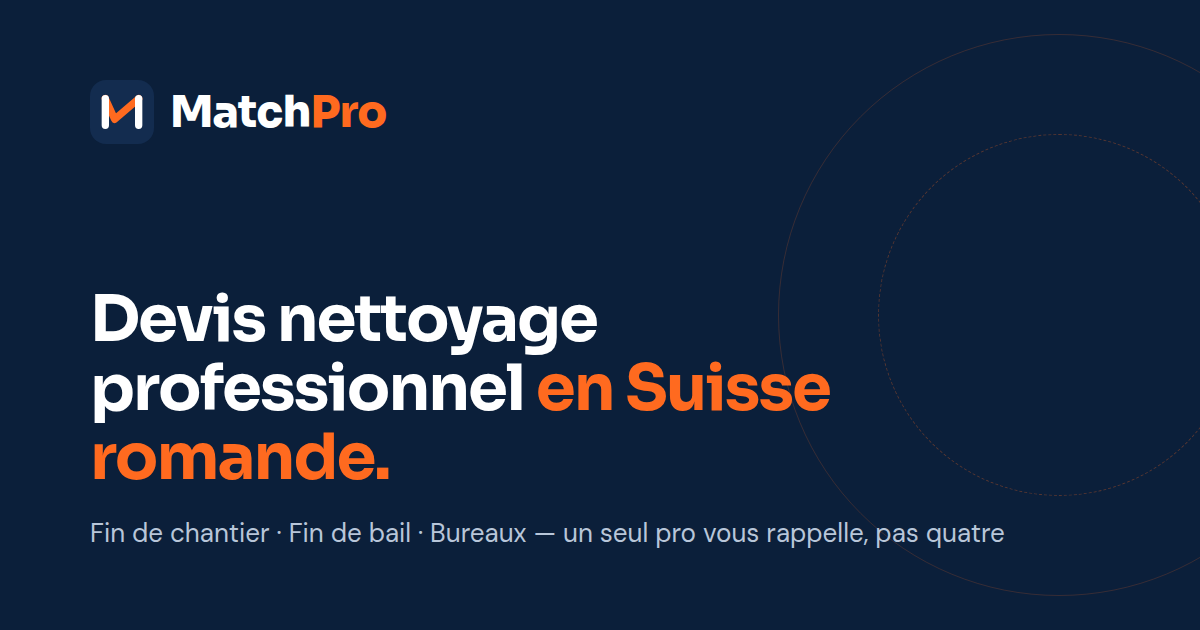
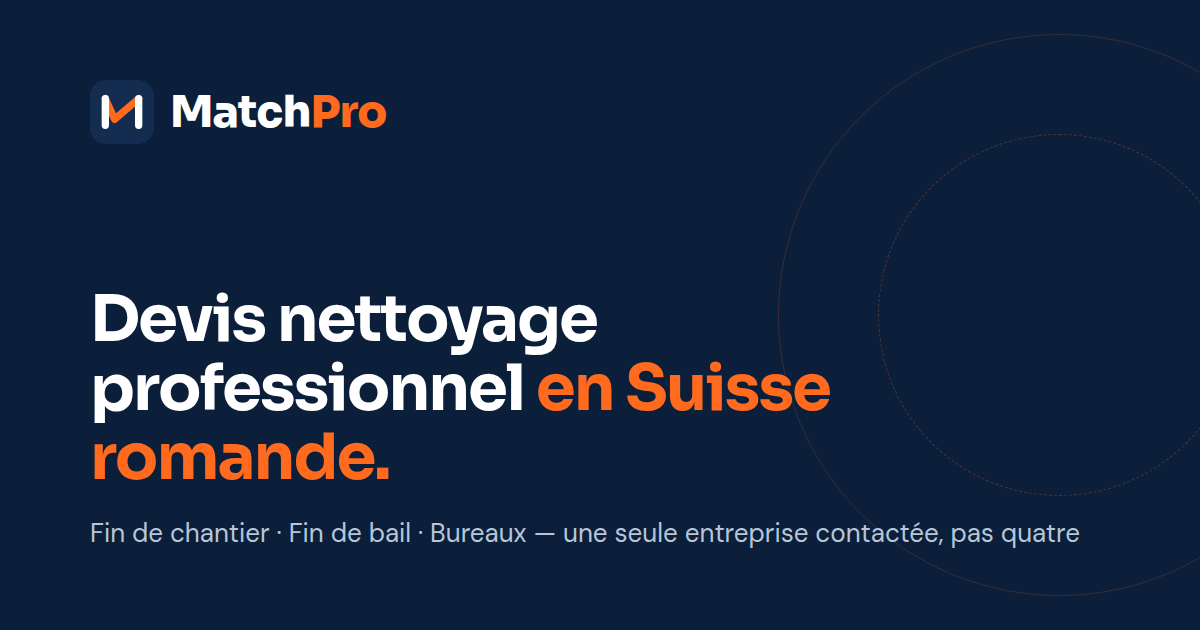
Landing MatchPro : titre avec mots-clés et textes fidèles au déroulement
- Titre : « Nettoyage de fin de bail, de chantier et de bureaux,
  en Suisse romande. » (au lieu de « Les meilleurs pros… »).
- Slogan sans superlatif invérifiable.
- Textes alignés sur le vrai déroulement : MatchPro rappelle sous
  24h, puis transmet à une seule entreprise qui établit le devis
  (texte d'accroche, point fort, étape 2, encadré, message après
  envoi, FAQ, pages services, descriptions).
- Image de partage mise à jour. Pré-rendu relancé.

Claude-Session: https://claude.ai/code/session_013JutAqbdvvbJFRc5uPirz9

Changed region(s): [[0.4933, 0.8143, 0.8942, 0.8746]]

diff --git a/site/index.html b/site/index.html
@@ -3,7 +3,7 @@
 <meta charset="UTF-8">
 <meta name="viewport" content="width=device-width, initial-scale=1, viewport-fit=cover">
 <title>Devis nettoyage professionnel — Suisse romande | MatchPro</title>
-<meta name="description" content="Nettoyage de fin de chantier, fin de bail et bureaux en Suisse romande, vitres en option. Devis gratuit et sans engagement, un seul professionnel vous rappelle, pas quatre.">
+<meta name="description" content="Nettoyage de fin de chantier, fin de bail et bureaux en Suisse romande, vitres en option. Devis gratuit et sans engagement, une seule entreprise contactée, pas quatre.">
 <meta name="theme-color" content="#0B1F3A">
 <!-- Référencement et aperçu de partage. Domaine provisoire https://matchpro.ch : s'il change, le remplacer partout dans ce fichier, sitemap.xml et robots.txt. -->
 <link rel="canonical" href="https://matchpro.ch/">
@@ -11,7 +11,7 @@
 <meta property="og:site_name" content="MatchPro">
 <meta property="og:locale" content="fr_CH">
 <meta property="og:title" content="Devis nettoyage professionnel — Suisse romande | MatchPro">
-<meta property="og:description" content="Nettoyage de fin de chantier, fin de bail et bureaux en Suisse romande, vitres en option. Devis gratuit et sans engagement, un seul professionnel vous rappelle, pas quatre.">
+<meta property="og:description" content="Nettoyage de fin de chantier, fin de bail et bureaux en Suisse romande, vitres en option. Devis gratuit et sans engagement, une seule entreprise contactée, pas quatre.">
 <meta property="og:url" content="https://matchpro.ch/">
 <meta property="og:image" content="https://matchpro.ch/matchpro-partage.png">
 <meta property="og:image:width" content="1200">
@@ -490,8 +490,8 @@
 
     <div class="hero-copy">
       <div class="pill"><span class="dot"></span><span id="heroEyebrow"><span class="full">Suisse romande · </span>VD · GE · FR · VS · JU</span></div>
-      <h1 id="heroTitle"><span id="h1Main">Les meilleurs pros,</span> <em id="h1Accent">au bon moment.</em></h1>
-      <p class="hero-lede" id="heroLede">Fin de chantier, fin de bail ou bureaux : décrivez votre besoin : une seule entreprise de nettoyage de votre région vous rappelle avec un devis. Nettoyage des vitres en option.</p>
+      <h1 id="heroTitle"><span id="h1Main">Nettoyage de fin de bail, de chantier et de bureaux,</span> <em id="h1Accent">en Suisse romande.</em></h1>
+      <p class="hero-lede" id="heroLede">Fin de chantier, fin de bail ou bureaux : décrivez votre besoin. MatchPro vous rappelle sous 24h, puis une seule entreprise de votre région vous établit un devis. Nettoyage des vitres en option.</p>
 
       <!-- ÉTAPE 1 : besoin + localisation (champs rattachés au formulaire #leadForm) -->
       <div class="search" id="devis" data-step="1">
@@ -509,12 +509,12 @@
       </div>
 
       <noscript><p class="noscript-note">Le formulaire a besoin de JavaScript : activez-le dans votre navigateur pour envoyer votre demande.</p></noscript>
-      <ul class="check-list" id="heroPoints"><li><svg width="18" height="18" aria-hidden="true"><use href="#pm-check"></use></svg>Un seul pro vous rappelle, pas quatre</li><li><svg width="18" height="18" aria-hidden="true"><use href="#pm-check"></use></svg>Devis gratuit et sans engagement</li><li><svg width="18" height="18" aria-hidden="true"><use href="#pm-check"></use></svg>Particuliers, régies et professionnels du bâtiment</li></ul>
+      <ul class="check-list" id="heroPoints"><li><svg width="18" height="18" aria-hidden="true"><use href="#pm-check"></use></svg>Une seule entreprise contactée, pas quatre</li><li><svg width="18" height="18" aria-hidden="true"><use href="#pm-check"></use></svg>Devis gratuit et sans engagement</li><li><svg width="18" height="18" aria-hidden="true"><use href="#pm-check"></use></svg>Particuliers, régies et professionnels du bâtiment</li></ul>
       <div class="rating" id="heroRating" hidden=""></div>
 
       <div class="match-mini" aria-hidden="true">
         <div class="ico"><svg width="28" height="24"><use href="#mp-mark-badge"></use></svg></div>
-        <div><strong>Un seul pro de votre région</strong><span id="miniText">Il vous rappelle sous 24h avec un devis.</span></div>
+        <div><strong>Un seul pro de votre région</strong><span id="miniText">MatchPro vous rappelle sous 24h.</span></div>
       </div>
     </div>
 
@@ -628,7 +628,7 @@
         <div class="success" id="successPane" role="status" aria-live="polite">
           <div class="check"><svg width="26" height="26"><use href="#pm-check"></use></svg></div>
           <h2>Demande bien reçue</h2>
-          <p class="sub" id="successText">Un professionnel partenaire vous rappelle rapidement.</p>
+          <p class="sub" id="successText">MatchPro vous rappelle rapidement.</p>
           <ol>
             <li>Gardez votre téléphone à portée : l'appel vient d'un numéro suisse.</li>
             <li>Préparez 2–3 photos des lieux : elles permettent souvent un devis sans visite.</li>
@@ -676,7 +676,7 @@
         <div class="cmp-num"><span>1</span> seul appel</div>
         <ul>
           <li><svg width="18" height="18" aria-hidden="true"><use href="#pm-check"></use></svg>Une seule entreprise de votre région reçoit votre demande.</li>
-          <li><svg width="18" height="18" aria-hidden="true"><use href="#pm-check"></use></svg>Un interlocuteur unique, du premier appel à l'intervention.</li>
+          <li><svg width="18" height="18" aria-hidden="true"><use href="#pm-check"></use></svg>Une seule entreprise vous contacte, jusqu'à l'intervention.</li>
           <li><svg width="18" height="18" aria-hidden="true"><use href="#pm-check"></use></svg>Un devis adapté à votre besoin, sans pression : libre à vous de ne pas donner suite.</li>
         </ul>
       </div>
@@ -691,7 +691,7 @@
     <h2>Trois étapes, <em>zéro démarchage</em></h2>
     <div class="steps-grid">
       <div class="step"><div class="num">01</div><h3>Décrivez votre besoin</h3><p>Type de nettoyage, lieu, taille et date. Une minute suffit.</p></div>
-      <div class="step"><div class="num">02</div><h3>Un professionnel vous rappelle</h3><p>Une seule entreprise de votre région reçoit votre demande et vous contacte <span data-cfg="delaiReponse">sous 24h</span>.</p></div>
+      <div class="step"><div class="num">02</div><h3>Nous vous rappelons</h3><p>MatchPro vous rappelle <span data-cfg="delaiReponse">sous 24h</span> pour préciser votre besoin, puis le transmet à une seule entreprise de votre région.</p></div>
       <div class="step"><div class="num">03</div><h3>Vous recevez votre devis</h3><p>Gratuit, sans engagement, et sans être sollicité par plusieurs entreprises.</p></div>
     </div>
   </div>
@@ -717,7 +717,7 @@
     <div>
       <div class="eyebrow">Entreprises générales, architectes, régies</div>
       <h2 id="proTitre">Vos fins de chantier, <em>un seul interlocuteur.</em></h2>
-      <p class="sub" id="proTexte">Neuf, rénovation, immeubles ou locaux commerciaux : décrivez le chantier et sa date de fin des travaux, un professionnel de votre région vous rappelle avec un devis.</p>
+      <p class="sub" id="proTexte">Neuf, rénovation, immeubles ou locaux commerciaux : décrivez le chantier et sa date de fin des travaux : nous vous rappelons sous 24h, puis une seule entreprise de votre région vous établit un devis.</p>
       <a class="btn" href="#devis" id="proBtn">Demander un devis professionnel<svg width="18" height="18" aria-hidden="true"><use href="#pm-arrow"></use></svg></a>
     </div>
     <div class="pro-card"><ul class="pro-list" id="proPoints"><li><svg width="18" height="18" aria-hidden="true"><use href="#pm-check"></use></svg><span><strong>Un seul interlocuteur</strong> — pas de mise en concurrence imposée, pas de relances multiples.</span></li><li><svg width="18" height="18" aria-hidden="true"><use href="#pm-check"></use></svg><span><strong>Adapté au chantier</strong> — surface, accès, date de réception des travaux : le devis part de vos informations.</span></li><li><svg width="18" height="18" aria-hidden="true"><use href="#pm-check"></use></svg><span><strong>Ponctuel ou récurrent</strong> — pour une réception d'ouvrage ou pour tous vos chantiers de l'année.</span></li></ul></div>
@@ -748,7 +748,7 @@
   <div class="wrap">
     <div class="eyebrow">Questions fréquentes</div>
     <h2>Avant de demander <em>votre devis</em></h2>
-    <div class="faq" id="faqList"><details><summary>Le devis est-il vraiment gratuit ?</summary><p>Oui. La demande et le devis sont gratuits et sans engagement : vous êtes libre de ne pas donner suite.</p></details><details><summary>Qui va me contacter ?</summary><p>Une seule entreprise de nettoyage partenaire, active dans votre région. Vos coordonnées ne sont transmises à personne d'autre.</p></details><details><summary>Pourquoi un seul professionnel et pas plusieurs devis ?</summary><p>Parce que comparer quatre devis veut souvent dire recevoir quatre appels. Votre demande est transmise à une seule entreprise de votre région : un interlocuteur, un devis, et vous restez libre de ne pas donner suite.</p></details><details><summary>Combien coûte un nettoyage ?</summary><p>Le montant dépend de la surface, de l'état des lieux et des options : c'est pourquoi le formulaire vous demande quelques détails, pour un devis juste dès le premier appel.</p></details><details><summary>Combien de temps à l'avance faut-il réserver ?</summary><p>Idéalement une à deux semaines avant la date souhaitée, et davantage en fin de mois, période chargée pour les fins de bail. En cas d'urgence, indiquez-le dans les précisions du formulaire.</p></details><details><summary>Quelle différence entre fin de chantier et fin de bail ?</summary><p>Le nettoyage de fin de chantier retire les poussières fines et les résidus de plâtre, de peinture, de colle et de protections après des travaux. Le nettoyage de fin de bail prépare un logement déjà habité pour l'état des lieux de sortie avec la régie.</p></details><details><summary>Faut-il une visite sur place ?</summary><p>Pas toujours. Pour les petites surfaces, quelques photos suffisent souvent. Pour un chantier ou de grands locaux, le professionnel peut proposer une courte visite.</p></details><details><summary>Pouvez-vous aussi nettoyer les vitres ?</summary><p>Oui, en option. Cochez « Ajouter le nettoyage des vitres » dans le formulaire : fenêtres, cadres et stores sont alors inclus dans le devis de la même intervention.</p></details><details><summary>Et mes données personnelles ?</summary><p>Elles servent uniquement à établir votre devis, ne sont ni vendues ni partagées avec d'autres entreprises, et vous pouvez demander leur suppression à tout moment.</p></details></div>
+    <div class="faq" id="faqList"><details><summary>Le devis est-il vraiment gratuit ?</summary><p>Oui. La demande et le devis sont gratuits et sans engagement : vous êtes libre de ne pas donner suite.</p></details><details><summary>Qui va me contacter ?</summary><p>D'abord MatchPro, sous 24h, pour préciser votre besoin. Ensuite une seule entreprise de nettoyage partenaire, qui établit le devis. Vos coordonnées ne sont transmises à personne d'autre.</p></details><details><summary>Pourquoi un seul professionnel et pas plusieurs devis ?</summary><p>Parce que comparer quatre devis veut souvent dire recevoir quatre appels. Votre demande est transmise à une seule entreprise de votre région : un interlocuteur, un devis, et vous restez libre de ne pas donner suite.</p></details><details><summary>Combien coûte un nettoyage ?</summary><p>Le montant dépend de la surface, de l'état des lieux et des options : c'est pourquoi le formulaire vous demande quelques détails, pour un devis juste dès le premier appel.</p></details><details><summary>Combien de temps à l'avance faut-il réserver ?</summary><p>Idéalement une à deux semaines avant la date souhaitée, et davantage en fin de mois, période chargée pour les fins de bail. En cas d'urgence, indiquez-le dans les précisions du formulaire.</p></details><details><summary>Quelle différence entre fin de chantier et fin de bail ?</summary><p>Le nettoyage de fin de chantier retire les poussières fines et les résidus de plâtre, de peinture, de colle et de protections après des travaux. Le nettoyage de fin de bail prépare un logement déjà habité pour l'état des lieux de sortie avec la régie.</p></details><details><summary>Faut-il une visite sur place ?</summary><p>Pas toujours. Pour les petites surfaces, quelques photos suffisent souvent. Pour un chantier ou de grands locaux, le professionnel peut proposer une courte visite.</p></details><details><summary>Pouvez-vous aussi nettoyer les vitres ?</summary><p>Oui, en option. Cochez « Ajouter le nettoyage des vitres » dans le formulaire : fenêtres, cadres et stores sont alors inclus dans le devis de la même intervention.</p></details><details><summary>Et mes données personnelles ?</summary><p>Elles servent uniquement à établir votre devis, ne sont ni vendues ni partagées avec d'autres entreprises, et vous pouvez demander leur suppression à tout moment.</p></details></div>
   </div>
 </section>
 
@@ -768,7 +768,7 @@
   <div class="wrap foot-grid">
     <div>
       <div class="logo" aria-hidden="true"><svg viewBox="0 0 48 48"><use href="#mp-icon"></use></svg><span class="wordmark">Match<b>Pro</b></span></div>
-      <p data-cfg="tagline">Les meilleurs pros au bon moment</p>
+      <p data-cfg="tagline">Le bon pro du nettoyage, sans multiplier les appels.</p>
       <p class="foot-links"><a href="nettoyage-fin-de-bail/">Nettoyage de fin de bail</a><a href="nettoyage-fin-de-chantier/">Nettoyage de fin de chantier</a><a href="nettoyage-bureaux/">Nettoyage de bureaux</a></p>
       <p id="footOperator">[Raison sociale ou nom complet — à compléter]<br>[Adresse — à compléter]<br>contact@matchpro.ch</p>
       <p class="foot-contact" id="footContact" hidden=""></p>
@@ -793,7 +793,7 @@
 const CONFIG = {
   clientId: "matchpro",                      // identifiant envoyé avec chaque lead (renommé le 25.09.2026 ; était "nettoyage-romandie-01")
   marque: "MatchPro",
-  tagline: "Les meilleurs pros au bon moment",
+  tagline: "Le bon pro du nettoyage, sans multiplier les appels.",
   telephone: "",                                // ex. "021 000 00 00" — vide = pas de bouton d'appel
   horaires: "",                                 // ex. "Lun–ven 8h–18h" — affiché avec le téléphone
   delaiReponse: "sous 24h",                     // NE PROMETTRE QUE CE QUE LE CLIENT TIENT RÉELLEMENT
@@ -814,7 +814,7 @@ const CONFIG = {
 
   // Points forts du hero : uniquement des faits vérifiables
   pointsForts: [
-    "Un seul pro vous rappelle, pas quatre",
+    "Une seule entreprise contactée, pas quatre",
     "Devis gratuit et sans engagement",
     "Particuliers, régies et professionnels du bâtiment"
   ],
@@ -823,8 +823,8 @@ const CONFIG = {
   avis: null,
 
   // Titre en 2 parties : [texte, fin en italique cuivre]
-  titreParDefaut: ["Les meilleurs pros,", "au bon moment."],
-  ledeParDefaut: "Fin de chantier, fin de bail ou bureaux : décrivez votre besoin : une seule entreprise de nettoyage de votre région vous rappelle avec un devis. Nettoyage des vitres en option.",
+  titreParDefaut: ["Nettoyage de fin de bail, de chantier et de bureaux,", "en Suisse romande."],
+  ledeParDefaut: "Fin de chantier, fin de bail ou bureaux : décrivez votre besoin. MatchPro vous rappelle sous 24h, puis une seule entreprise de votre région vous établit un devis. Nettoyage des vitres en option.",
 
   // Prestation complémentaire proposée en case à cocher dans le formulaire (null = aucune)
   option: {
@@ -840,9 +840,9 @@ const CONFIG = {
   // h1: [texte, fin en italique]
   services: {
     "chantier":    { label: "Fin de chantier",     desc: "Neuf ou rénovation : poussières, résidus, sols.", taille: "surface",  frequence: false, option: true, dateLabel: "Date de fin des travaux",
-                     h1: ["Nettoyage de fin de chantier,", "prêt pour la remise des clés."], lede: "Neuf ou rénovation en Suisse romande : un professionnel évalue votre chantier et vous transmet un devis clair." },
+                     h1: ["Nettoyage de fin de chantier,", "prêt pour la remise des clés."], lede: "Neuf ou rénovation en Suisse romande : nous vous rappelons sous 24h, puis une seule entreprise de votre région évalue votre chantier et vous établit un devis clair." },
     "fin-de-bail": { label: "Fin de bail",         desc: "Appartement ou maison, préparé pour l'état des lieux.", taille: "pieces", frequence: false, option: true, dateLabel: "Date de l'état des lieux",
-                     h1: ["Nettoyage de fin de bail,", "prêt pour l'état des lieux."], lede: "Indiquez la date de votre état des lieux : un professionnel de votre région vous rappelle avec un devis." },
+                     h1: ["Nettoyage de fin de bail,", "prêt pour l'état des lieux."], lede: "Indiquez la date de votre état des lieux : nous vous rappelons sous 24h, puis une seule entreprise de votre région vous établit un devis." },
     "bureaux":     { label: "Bureaux & immeubles", desc: "Bureaux, commerces, cages d'escalier.", taille: "surface", frequence: true, option: true, dateLabel: "Date souhaitée (début)",
                      h1: ["Nettoyage de bureaux et d'immeubles", "en Suisse romande."], lede: "Contrat régulier ou intervention ponctuelle : décrivez vos locaux, recevez un devis adapté." }
   },
@@ -856,7 +856,7 @@ const CONFIG = {
   // Bloc « professionnels du bâtiment » (null = masqué)
   pro: {
     titre: ["Vos fins de chantier,", "un seul interlocuteur."],
-    texte: "Neuf, rénovation, immeubles ou locaux commerciaux : décrivez le chantier et sa date de fin des travaux, un professionnel de votre région vous rappelle avec un devis.",
+    texte: "Neuf, rénovation, immeubles ou locaux commerciaux : décrivez le chantier et sa date de fin des travaux : nous vous rappelons sous 24h, puis une seule entreprise de votre région vous établit un devis.",
     points: [
       ["Un seul interlocuteur", "pas de mise en concurrence imposée, pas de relances multiples."],
       ["Adapté au chantier", "surface, accès, date de réception des travaux : le devis part de vos informations."],
@@ -871,7 +871,7 @@ const CONFIG = {
 
   faq: [
     ["Le devis est-il vraiment gratuit ?", "Oui. La demande et le devis sont gratuits et sans engagement : vous êtes libre de ne pas donner suite."],
-    ["Qui va me contacter ?", "Une seule entreprise de nettoyage partenaire, active dans votre région. Vos coordonnées ne sont transmises à personne d'autre."],
+    ["Qui va me contacter ?", "D'abord MatchPro, sous 24h, pour préciser votre besoin. Ensuite une seule entreprise de nettoyage partenaire, qui établit le devis. Vos coordonnées ne sont transmises à personne d'autre."],
     ["Pourquoi un seul professionnel et pas plusieurs devis ?", "Parce que comparer quatre devis veut souvent dire recevoir quatre appels. Votre demande est transmise à une seule entreprise de votre région : un interlocuteur, un devis, et vous restez libre de ne pas donner suite."],
     ["Combien coûte un nettoyage ?", "Le montant dépend de la surface, de l'état des lieux et des options : c'est pourquoi le formulaire vous demande quelques détails, pour un devis juste dès le premier appel."],
     ["Combien de temps à l'avance faut-il réserver ?", "Idéalement une à deux semaines avant la date souhaitée, et davantage en fin de mois, période chargée pour les fins de bail. En cas d'urgence, indiquez-le dans les précisions du formulaire."],
@@ -942,7 +942,7 @@ $("#zoneText").textContent = "Nos professionnels partenaires interviennent dans 
 $("#zoneChips").innerHTML = CONFIG.communes.map(c => `<span class="chip">${esc(c)}</span>`).join("");
 $("#faqList").innerHTML = CONFIG.faq.map(([q, a]) => `<details><summary>${esc(q)}</summary><p>${esc(a)}</p></details>`).join("");
 $("#vizDelai").textContent = "Rappel " + CONFIG.delaiReponse;
-$("#miniText").textContent = "Il vous rappelle " + CONFIG.delaiReponse + " avec un devis.";
+$("#miniText").textContent = "MatchPro vous rappelle " + CONFIG.delaiReponse + ".";
 
 const svcKeys = Object.keys(CONFIG.services);
 $("#service").innerHTML = svcKeys.map(k => `<option value="${k}">${esc(CONFIG.services[k].label)}</option>`).join("");
@@ -1171,7 +1171,7 @@ $("#leadForm").addEventListener("submit", async e => {
     }
     track("lead_submit", { service: d.service, canton: d.canton, lead_score: payload.score, lead_niveau: payload.niveau });
     $("#formPane").hidden = true;
-    $("#successText").textContent = `Merci ${d.nom.split(" ")[0]}. Un professionnel partenaire vous rappelle ${CONFIG.delaiReponse} au ${d.tel}.`;
+    $("#successText").textContent = `Merci ${d.nom.split(" ")[0]}. MatchPro vous rappelle ${CONFIG.delaiReponse} au ${d.tel}, puis vous met en relation avec une seule entreprise de votre région.`;
     $("#successPane").classList.add("show");
     scrollTo(card, "start");
   } catch (x) {
@@ -1192,6 +1192,8 @@ io.observe(card);
 
 goTo(1);
 </script>
+
+
 
 
 

diff --git a/site/nettoyage-fin-de-bail/index.html b/site/nettoyage-fin-de-bail/index.html
@@ -4,7 +4,7 @@
 <meta charset="UTF-8">
 <meta name="viewport" content="width=device-width, initial-scale=1, viewport-fit=cover">
 <title>Nettoyage de fin de bail en Suisse romande | MatchPro</title>
-<meta name="description" content="Vous quittez votre logement ? Nettoyage de fin de bail en Suisse romande : cuisine, salle de bain, vitres, stores, préparés pour l'état des lieux. Devis gratuit, un seul professionnel vous rappelle.">
+<meta name="description" content="Vous quittez votre logement ? Nettoyage de fin de bail en Suisse romande : cuisine, salle de bain, vitres, stores, préparés pour l'état des lieux. Devis gratuit, une seule entreprise contactée.">
 <meta name="theme-color" content="#0B1F3A">
 <!-- Domaine provisoire https://matchpro.ch : s'il change, le remplacer dans toutes les pages, sitemap.xml et robots.txt. -->
 <link rel="canonical" href="https://matchpro.ch/nettoyage-fin-de-bail/">
@@ -12,7 +12,7 @@
 <meta property="og:site_name" content="MatchPro">
 <meta property="og:locale" content="fr_CH">
 <meta property="og:title" content="Nettoyage de fin de bail en Suisse romande | MatchPro">
-<meta property="og:description" content="Vous quittez votre logement ? Nettoyage de fin de bail en Suisse romande : cuisine, salle de bain, vitres, stores, préparés pour l'état des lieux. Devis gratuit, un seul professionnel vous rappelle.">
+<meta property="og:description" content="Vous quittez votre logement ? Nettoyage de fin de bail en Suisse romande : cuisine, salle de bain, vitres, stores, préparés pour l'état des lieux. Devis gratuit, une seule entreprise contactée.">
 <meta property="og:url" content="https://matchpro.ch/nettoyage-fin-de-bail/">
 <meta property="og:image" content="https://matchpro.ch/matchpro-partage.png">
 <meta property="og:image:width" content="1200">
@@ -92,9 +92,9 @@
       <nav class="crumb" aria-label="Fil d'Ariane"><a href="../">Accueil</a> › Nettoyage de fin de bail</nav>
       <div class="pill"><span class="dot"></span><span><span class="full">Suisse romande · </span>VD · GE · FR · VS · JU</span></div>
       <h1>Nettoyage de fin de bail <em>en Suisse romande.</em></h1>
-      <p class="hero-lede">Vous rendez votre appartement ou votre maison ? Indiquez le nombre de pièces et la date de l'état des lieux : un seul professionnel de votre région vous rappelle avec un devis.</p>
+      <p class="hero-lede">Vous rendez votre appartement ou votre maison ? Indiquez le nombre de pièces et la date de l'état des lieux : nous vous rappelons sous 24h, puis une seule entreprise de votre région vous établit un devis.</p>
       <div class="cta-row"><a class="btn" href="../?service=fin-de-bail#devis">Demander mon devis<svg width="18" height="18" aria-hidden="true"><use href="#pm-arrow"/></svg></a><a class="btn ghost" href="#comment">Comment ça marche</a></div>
-      <ul class="check-list"><li><svg width="18" height="18" aria-hidden="true"><use href="#pm-check"/></svg>Un seul pro vous rappelle, pas quatre</li><li><svg width="18" height="18" aria-hidden="true"><use href="#pm-check"/></svg>Devis gratuit et sans engagement</li><li><svg width="18" height="18" aria-hidden="true"><use href="#pm-check"/></svg>Particuliers, régies et professionnels du bâtiment</li></ul>
+      <ul class="check-list"><li><svg width="18" height="18" aria-hidden="true"><use href="#pm-check"/></svg>Une seule entreprise contactée, pas quatre</li><li><svg width="18" height="18" aria-hidden="true"><use href="#pm-check"/></svg>Devis gratuit et sans engagement</li><li><svg width="18" height="18" aria-hidden="true"><use href="#pm-check"/></svg>Particuliers, régies et professionnels du bâtiment</li></ul>
       <p class="hero-note">MatchPro est un service de mise en relation : votre demande est transmise à une seule entreprise de nettoyage partenaire de votre région, qui établit le devis et réalise l'intervention.</p>
     </div>
     <div class="hero-side">
@@ -122,7 +122,7 @@
     <h2>Trois étapes, <em>zéro démarchage</em></h2>
     <div class="steps-grid">
       <div class="step"><div class="num">01</div><h3>Décrivez votre besoin</h3><p>Type de nettoyage, lieu, taille et date. Une minute suffit.</p></div>
-      <div class="step"><div class="num">02</div><h3>Un professionnel vous rappelle</h3><p>Une seule entreprise de votre région reçoit votre demande et vous contacte.</p></div>
+      <div class="step"><div class="num">02</div><h3>Nous vous rappelons</h3><p>MatchPro vous rappelle sous 24h pour préciser votre besoin, puis le transmet à une seule entreprise de votre région.</p></div>
       <div class="step"><div class="num">03</div><h3>Vous recevez votre devis</h3><p>Gratuit, sans engagement, et sans être sollicité par plusieurs entreprises.</p></div>
     </div>
   </div>
@@ -132,7 +132,7 @@
   <div class="wrap">
     <div class="eyebrow">Questions fréquentes</div>
     <h2>Fin de bail : <em>vos questions</em></h2>
-    <div class="faq"><details><summary>Faut-il faire appel à une entreprise ?</summary><p>Non, le logement doit être rendu propre, mais vous pouvez le nettoyer vous-même. Une entreprise spécialisée connaît toutefois les points contrôlés par les régies et dispose du matériel adapté (calcaire, four, vitres).</p></details><details><summary>Les vitres sont-elles comprises ?</summary><p>Cela dépend de l'entreprise. Cochez « Ajouter le nettoyage des vitres » dans le formulaire : elles seront prévues dans le devis.</p></details><details><summary>Dois-je être présent pendant le nettoyage ?</summary><p>C'est à convenir avec le professionnel au moment du devis : remise des clés, accès au logement et contrôle final.</p></details><details><summary>Combien coûte le nettoyage ?</summary><p>Le prix dépend de la surface, de l'état des lieux, de la fréquence et des options (vitres, stores, balcon, cave). Il est fixé par le professionnel dans un devis gratuit, que vous êtes libre de refuser.</p></details><details><summary>Qui va me contacter ?</summary><p>Une seule entreprise de nettoyage partenaire, active dans votre région. MatchPro est un service de mise en relation : c'est l'entreprise qui établit le devis et réalise l'intervention.</p></details></div>
+    <div class="faq"><details><summary>Faut-il faire appel à une entreprise ?</summary><p>Non, le logement doit être rendu propre, mais vous pouvez le nettoyer vous-même. Une entreprise spécialisée connaît toutefois les points contrôlés par les régies et dispose du matériel adapté (calcaire, four, vitres).</p></details><details><summary>Les vitres sont-elles comprises ?</summary><p>Cela dépend de l'entreprise. Cochez « Ajouter le nettoyage des vitres » dans le formulaire : elles seront prévues dans le devis.</p></details><details><summary>Dois-je être présent pendant le nettoyage ?</summary><p>C'est à convenir avec le professionnel au moment du devis : remise des clés, accès au logement et contrôle final.</p></details><details><summary>Combien coûte le nettoyage ?</summary><p>Le prix dépend de la surface, de l'état des lieux, de la fréquence et des options (vitres, stores, balcon, cave). Il est fixé par le professionnel dans un devis gratuit, que vous êtes libre de refuser.</p></details><details><summary>Qui va me contacter ?</summary><p>D'abord MatchPro, sous 24h, pour préciser votre besoin. Ensuite une seule entreprise de nettoyage partenaire de votre région, qui établit le devis et réalise l'intervention.</p></details></div>
   </div>
 </section>
 
@@ -159,7 +159,7 @@
   <div class="wrap foot-grid">
     <div>
       <div class="logo" aria-hidden="true"><svg viewBox="0 0 48 48"><use href="#mp-icon"/></svg><span class="wordmark">Match<b>Pro</b></span></div>
-      <p>Les meilleurs pros au bon moment</p>
+      <p>Le bon pro du nettoyage, sans multiplier les appels.</p>
       <p class="foot-links"><a href="../">Accueil</a><a href="../nettoyage-fin-de-bail/">Nettoyage de fin de bail</a><a href="../nettoyage-fin-de-chantier/">Nettoyage de fin de chantier</a><a href="../nettoyage-bureaux/">Nettoyage de bureaux</a></p>
     </div>
     <div>

diff --git a/site/nettoyage-fin-de-chantier/index.html b/site/nettoyage-fin-de-chantier/index.html
@@ -4,7 +4,7 @@
 <meta charset="UTF-8">
 <meta name="viewport" content="width=device-width, initial-scale=1, viewport-fit=cover">
 <title>Nettoyage de fin de chantier en Suisse romande | MatchPro</title>
-<meta name="description" content="Construction neuve ou rénovation : nettoyage de fin de chantier en Suisse romande avant la remise des clés. Particuliers, architectes, entreprises. Devis gratuit, un seul professionnel vous rappelle.">
+<meta name="description" content="Construction neuve ou rénovation : nettoyage de fin de chantier en Suisse romande avant la remise des clés. Particuliers, architectes, entreprises. Devis gratuit, une seule entreprise contactée.">
 <meta name="theme-color" content="#0B1F3A">
 <!-- Domaine provisoire https://matchpro.ch : s'il change, le remplacer dans toutes les pages, sitemap.xml et robots.txt. -->
 <link rel="canonical" href="https://matchpro.ch/nettoyage-fin-de-chantier/">
@@ -12,7 +12,7 @@
 <meta property="og:site_name" content="MatchPro">
 <meta property="og:locale" content="fr_CH">
 <meta property="og:title" content="Nettoyage de fin de chantier en Suisse romande | MatchPro">
-<meta property="og:description" content="Construction neuve ou rénovation : nettoyage de fin de chantier en Suisse romande avant la remise des clés. Particuliers, architectes, entreprises. Devis gratuit, un seul professionnel vous rappelle.">
+<meta property="og:description" content="Construction neuve ou rénovation : nettoyage de fin de chantier en Suisse romande avant la remise des clés. Particuliers, architectes, entreprises. Devis gratuit, une seule entreprise contactée.">
 <meta property="og:url" content="https://matchpro.ch/nettoyage-fin-de-chantier/">
 <meta property="og:image" content="https://matchpro.ch/matchpro-partage.png">
 <meta property="og:image:width" content="1200">
@@ -92,9 +92,9 @@
       <nav class="crumb" aria-label="Fil d'Ariane"><a href="../">Accueil</a> › Nettoyage de fin de chantier</nav>
       <div class="pill"><span class="dot"></span><span><span class="full">Suisse romande · </span>VD · GE · FR · VS · JU</span></div>
       <h1>Nettoyage de fin de chantier <em>en Suisse romande.</em></h1>
-      <p class="hero-lede">Construction neuve ou rénovation : indiquez la surface et la date de fin des travaux. Un seul professionnel de votre région vous rappelle avec un devis.</p>
+      <p class="hero-lede">Construction neuve ou rénovation : indiquez la surface et la date de fin des travaux. Nous vous rappelons sous 24h, puis une seule entreprise de votre région vous établit un devis.</p>
       <div class="cta-row"><a class="btn" href="../?service=chantier#devis">Demander mon devis<svg width="18" height="18" aria-hidden="true"><use href="#pm-arrow"/></svg></a><a class="btn ghost" href="#comment">Comment ça marche</a></div>
-      <ul class="check-list"><li><svg width="18" height="18" aria-hidden="true"><use href="#pm-check"/></svg>Un seul pro vous rappelle, pas quatre</li><li><svg width="18" height="18" aria-hidden="true"><use href="#pm-check"/></svg>Devis gratuit et sans engagement</li><li><svg width="18" height="18" aria-hidden="true"><use href="#pm-check"/></svg>Particuliers, régies et professionnels du bâtiment</li></ul>
+      <ul class="check-list"><li><svg width="18" height="18" aria-hidden="true"><use href="#pm-check"/></svg>Une seule entreprise contactée, pas quatre</li><li><svg width="18" height="18" aria-hidden="true"><use href="#pm-check"/></svg>Devis gratuit et sans engagement</li><li><svg width="18" height="18" aria-hidden="true"><use href="#pm-check"/></svg>Particuliers, régies et professionnels du bâtiment</li></ul>
       <p class="hero-note">MatchPro est un service de mise en relation : votre demande est transmise à une seule entreprise de nettoyage partenaire de votre région, qui établit le devis et réalise l'intervention.</p>
     </div>
     <div class="hero-side">
@@ -124,7 +124,7 @@
     <h2>Trois étapes, <em>zéro démarchage</em></h2>
     <div class="steps-grid">
       <div class="step"><div class="num">01</div><h3>Décrivez votre besoin</h3><p>Type de nettoyage, lieu, taille et date. Une minute suffit.</p></div>
-      <div class="step"><div class="num">02</div><h3>Un professionnel vous rappelle</h3><p>Une seule entreprise de votre région reçoit votre demande et vous contacte.</p></div>
+      <div class="step"><div class="num">02</div><h3>Nous vous rappelons</h3><p>MatchPro vous rappelle sous 24h pour préciser votre besoin, puis le transmet à une seule entreprise de votre région.</p></div>
       <div class="step"><div class="num">03</div><h3>Vous recevez votre devis</h3><p>Gratuit, sans engagement, et sans être sollicité par plusieurs entreprises.</p></div>
     </div>
   </div>
@@ -134,7 +134,7 @@
   <div class="wrap">
     <div class="eyebrow">Questions fréquentes</div>
     <h2>Fin de chantier : <em>vos questions</em></h2>
-    <div class="faq"><details><summary>Quelle différence avec un nettoyage de fin de bail ?</summary><p>Le nettoyage de fin de chantier retire les résidus de travaux (poussière fine, plâtre, peinture, silicone), qui demandent des méthodes et des produits spécifiques. Le nettoyage de fin de bail prépare un logement déjà habité pour l'état des lieux.</p></details><details><summary>Faut-il une visite avant le devis ?</summary><p>Pour un chantier, une courte visite ou des photos permettent au professionnel d'évaluer le travail et d'établir un devis précis.</p></details><details><summary>Combien coûte le nettoyage ?</summary><p>Le prix dépend de la surface, de l'état des lieux, de la fréquence et des options (vitres, stores, balcon, cave). Il est fixé par le professionnel dans un devis gratuit, que vous êtes libre de refuser.</p></details><details><summary>Qui va me contacter ?</summary><p>Une seule entreprise de nettoyage partenaire, active dans votre région. MatchPro est un service de mise en relation : c'est l'entreprise qui établit le devis et réalise l'intervention.</p></details></div>
+    <div class="faq"><details><summary>Quelle différence avec un nettoyage de fin de bail ?</summary><p>Le nettoyage de fin de chantier retire les résidus de travaux (poussière fine, plâtre, peinture, silicone), qui demandent des méthodes et des produits spécifiques. Le nettoyage de fin de bail prépare un logement déjà habité pour l'état des lieux.</p></details><details><summary>Faut-il une visite avant le devis ?</summary><p>Pour un chantier, une courte visite ou des photos permettent au professionnel d'évaluer le travail et d'établir un devis précis.</p></details><details><summary>Combien coûte le nettoyage ?</summary><p>Le prix dépend de la surface, de l'état des lieux, de la fréquence et des options (vitres, stores, balcon, cave). Il est fixé par le professionnel dans un devis gratuit, que vous êtes libre de refuser.</p></details><details><summary>Qui va me contacter ?</summary><p>D'abord MatchPro, sous 24h, pour préciser votre besoin. Ensuite une seule entreprise de nettoyage partenaire de votre région, qui établit le devis et réalise l'intervention.</p></details></div>
   </div>
 </section>
 
@@ -161,7 +161,7 @@
   <div class="wrap foot-grid">
     <div>
       <div class="logo" aria-hidden="true"><svg viewBox="0 0 48 48"><use href="#mp-icon"/></svg><span class="wordmark">Match<b>Pro</b></span></div>
-      <p>Les meilleurs pros au bon moment</p>
+      <p>Le bon pro du nettoyage, sans multiplier les appels.</p>
       <p class="foot-links"><a href="../">Accueil</a><a href="../nettoyage-fin-de-bail/">Nettoyage de fin de bail</a><a href="../nettoyage-fin-de-chantier/">Nettoyage de fin de chantier</a><a href="../nettoyage-bureaux/">Nettoyage de bureaux</a></p>
     </div>
     <div>

diff --git a/site/nettoyage-bureaux/index.html b/site/nettoyage-bureaux/index.html
@@ -4,7 +4,7 @@
 <meta charset="UTF-8">
 <meta name="viewport" content="width=device-width, initial-scale=1, viewport-fit=cover">
 <title>Nettoyage de bureaux et d'immeubles en Suisse romande | MatchPro</title>
-<meta name="description" content="Nettoyage régulier ou ponctuel de bureaux, commerces et cages d'escalier en Suisse romande. Indiquez la surface et la fréquence : devis gratuit, un seul professionnel vous rappelle.">
+<meta name="description" content="Nettoyage régulier ou ponctuel de bureaux, commerces et cages d'escalier en Suisse romande. Indiquez la surface et la fréquence : devis gratuit, une seule entreprise contactée.">
 <meta name="theme-color" content="#0B1F3A">
 <!-- Domaine provisoire https://matchpro.ch : s'il change, le remplacer dans toutes les pages, sitemap.xml et robots.txt. -->
 <link rel="canonical" href="https://matchpro.ch/nettoyage-bureaux/">
@@ -12,7 +12,7 @@
 <meta property="og:site_name" content="MatchPro">
 <meta property="og:locale" content="fr_CH">
 <meta property="og:title" content="Nettoyage de bureaux et d'immeubles en Suisse romande | MatchPro">
-<meta property="og:description" content="Nettoyage régulier ou ponctuel de bureaux, commerces et cages d'escalier en Suisse romande. Indiquez la surface et la fréquence : devis gratuit, un seul professionnel vous rappelle.">
+<meta property="og:description" content="Nettoyage régulier ou ponctuel de bureaux, commerces et cages d'escalier en Suisse romande. Indiquez la surface et la fréquence : devis gratuit, une seule entreprise contactée.">
 <meta property="og:url" content="https://matchpro.ch/nettoyage-bureaux/">
 <meta property="og:image" content="https://matchpro.ch/matchpro-partage.png">
 <meta property="og:image:width" content="1200">
@@ -92,9 +92,9 @@
       <nav class="crumb" aria-label="Fil d'Ariane"><a href="../">Accueil</a> › Nettoyage de bureaux et d'immeubles</nav>
       <div class="pill"><span class="dot"></span><span><span class="full">Suisse romande · </span>VD · GE · FR · VS · JU</span></div>
       <h1>Nettoyage de bureaux et d'immeubles <em>en Suisse romande.</em></h1>
-      <p class="hero-lede">Bureaux, commerces, cabinets, cages d'escalier : indiquez la surface de vos locaux et la fréquence souhaitée. Un seul professionnel de votre région vous rappelle avec un devis.</p>
+      <p class="hero-lede">Bureaux, commerces, cabinets, cages d'escalier : indiquez la surface de vos locaux et la fréquence souhaitée. Nous vous rappelons sous 24h, puis une seule entreprise de votre région vous établit un devis.</p>
       <div class="cta-row"><a class="btn" href="../?service=bureaux#devis">Demander mon devis<svg width="18" height="18" aria-hidden="true"><use href="#pm-arrow"/></svg></a><a class="btn ghost" href="#comment">Comment ça marche</a></div>
-      <ul class="check-list"><li><svg width="18" height="18" aria-hidden="true"><use href="#pm-check"/></svg>Un seul pro vous rappelle, pas quatre</li><li><svg width="18" height="18" aria-hidden="true"><use href="#pm-check"/></svg>Devis gratuit et sans engagement</li><li><svg width="18" height="18" aria-hidden="true"><use href="#pm-check"/></svg>Particuliers, régies et professionnels du bâtiment</li></ul>
+      <ul class="check-list"><li><svg width="18" height="18" aria-hidden="true"><use href="#pm-check"/></svg>Une seule entreprise contactée, pas quatre</li><li><svg width="18" height="18" aria-hidden="true"><use href="#pm-check"/></svg>Devis gratuit et sans engagement</li><li><svg width="18" height="18" aria-hidden="true"><use href="#pm-check"/></svg>Particuliers, régies et professionnels du bâtiment</li></ul>
       <p class="hero-note">MatchPro est un service de mise en relation : votre demande est transmise à une seule entreprise de nettoyage partenaire de votre région, qui établit le devis et réalise l'intervention.</p>
     </div>
     <div class="hero-side">
@@ -122,7 +122,7 @@
     <h2>Trois étapes, <em>zéro démarchage</em></h2>
     <div class="steps-grid">
       <div class="step"><div class="num">01</div><h3>Décrivez votre besoin</h3><p>Type de nettoyage, lieu, taille et date. Une minute suffit.</p></div>
-      <div class="step"><div class="num">02</div><h3>Un professionnel vous rappelle</h3><p>Une seule entreprise de votre région reçoit votre demande et vous contacte.</p></div>
+      <div class="step"><div class="num">02</div><h3>Nous vous rappelons</h3><p>MatchPro vous rappelle sous 24h pour préciser votre besoin, puis le transmet à une seule entreprise de votre région.</p></div>
       <div class="step"><div class="num">03</div><h3>Vous recevez votre devis</h3><p>Gratuit, sans engagement, et sans être sollicité par plusieurs entreprises.</p></div>
     </div>
   </div>
@@ -132,7 +132,7 @@
   <div class="wrap">
     <div class="eyebrow">Questions fréquentes</div>
     <h2>Bureaux &amp; immeubles : <em>vos questions</em></h2>
-    <div class="faq"><details><summary>Quelle fréquence choisir ?</summary><p>Elle dépend du nombre de personnes et du passage dans vos locaux. Indiquez vos habitudes : le professionnel vous conseillera dans son devis.</p></details><details><summary>Peut-on nettoyer en dehors des heures de bureau ?</summary><p>Indiquez vos horaires souhaités dans la demande : le professionnel vous dira ce qui est possible.</p></details><details><summary>Combien coûte le nettoyage ?</summary><p>Le prix dépend de la surface, de l'état des lieux, de la fréquence et des options (vitres, stores, balcon, cave). Il est fixé par le professionnel dans un devis gratuit, que vous êtes libre de refuser.</p></details><details><summary>Qui va me contacter ?</summary><p>Une seule entreprise de nettoyage partenaire, active dans votre région. MatchPro est un service de mise en relation : c'est l'entreprise qui établit le devis et réalise l'intervention.</p></details></div>
+    <div class="faq"><details><summary>Quelle fréquence choisir ?</summary><p>Elle dépend du nombre de personnes et du passage dans vos locaux. Indiquez vos habitudes : le professionnel vous conseillera dans son devis.</p></details><details><summary>Peut-on nettoyer en dehors des heures de bureau ?</summary><p>Indiquez vos horaires souhaités dans la demande : le professionnel vous dira ce qui est possible.</p></details><details><summary>Combien coûte le nettoyage ?</summary><p>Le prix dépend de la surface, de l'état des lieux, de la fréquence et des options (vitres, stores, balcon, cave). Il est fixé par le professionnel dans un devis gratuit, que vous êtes libre de refuser.</p></details><details><summary>Qui va me contacter ?</summary><p>D'abord MatchPro, sous 24h, pour préciser votre besoin. Ensuite une seule entreprise de nettoyage partenaire de votre région, qui établit le devis et réalise l'intervention.</p></details></div>
   </div>
 </section>
 
@@ -159,7 +159,7 @@
   <div class="wrap foot-grid">
     <div>
       <div class="logo" aria-hidden="true"><svg viewBox="0 0 48 48"><use href="#mp-icon"/></svg><span class="wordmark">Match<b>Pro</b></span></div>
-      <p>Les meilleurs pros au bon moment</p>
+      <p>Le bon pro du nettoyage, sans multiplier les appels.</p>
       <p class="foot-links"><a href="../">Accueil</a><a href="../nettoyage-fin-de-bail/">Nettoyage de fin de bail</a><a href="../nettoyage-fin-de-chantier/">Nettoyage de fin de chantier</a><a href="../nettoyage-bureaux/">Nettoyage de bureaux</a></p>
     </div>
     <div>
